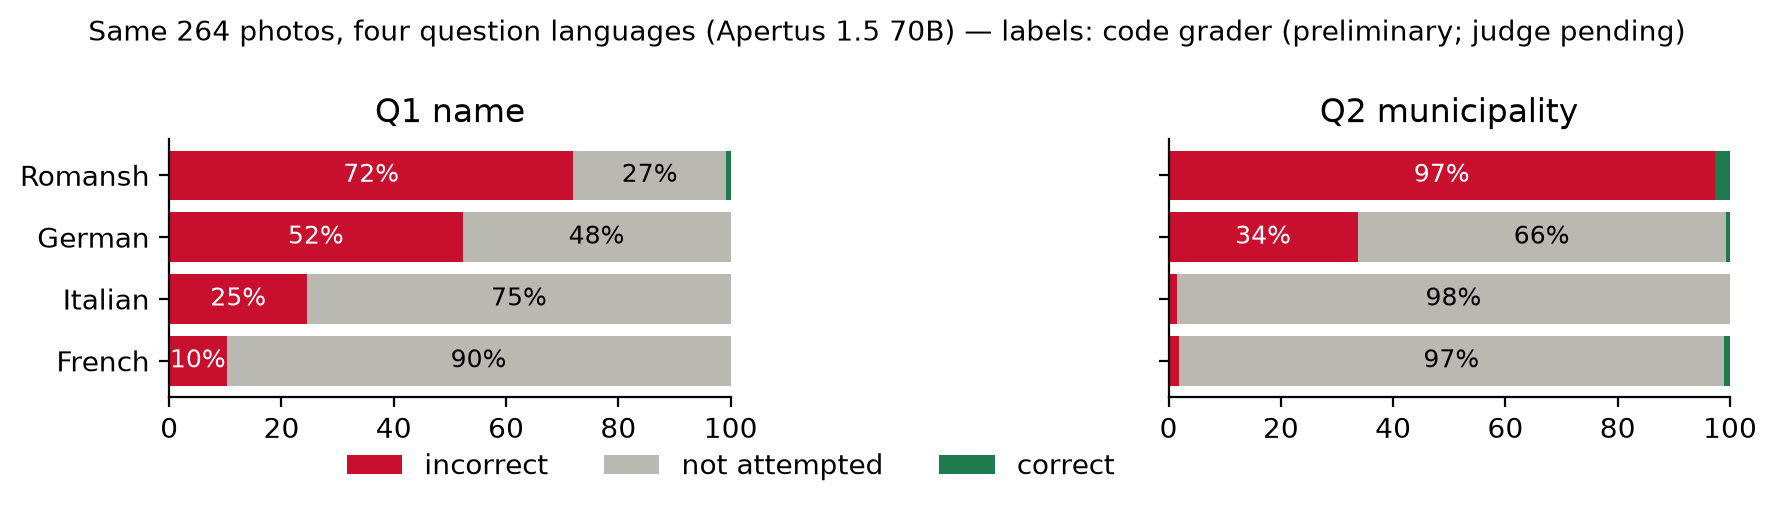
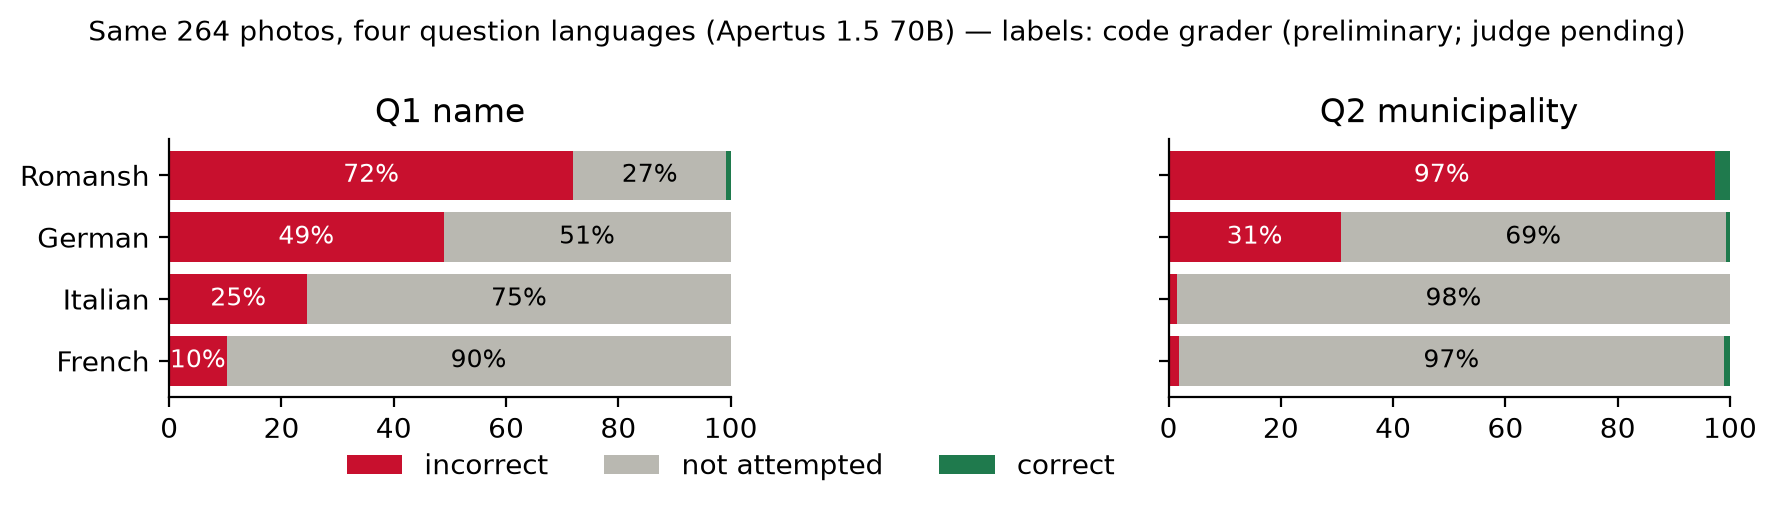
Grader fix v5b after a second audit of all hedged answers (39 labels, all read): echo removal, building-noun anchors, article/bold/preposition name cues; Sent dedication guard; report and figures updated; 153 tests

diff --git a/track_1b/src/landmarks_eval/grading/rules.py b/track_1b/src/landmarks_eval/grading/rules.py
@@ -97,12 +97,38 @@ GENERIC_CAPS = {
     "informazioni", "information", "dettagli", "contesto", "funtauna", "chasa", "edifizi", "monument", "vischnanca",
     "swiss", "switzerland", "alps", "alpes", "mineralien", "museumsprasentation", "wehrturm", "wehrmauern",
     "stadtbefestigung", "bogenbrucke", "kirchturm", "dorf", "berg", "bergdorf", "altstadt", "landsitz", "landsitzes",
+    # added in the second v5 audit (plurals and common nouns that looked like names)
+    "burgen", "brucken", "kapellen", "turme", "schlosser", "hauser", "wehrturms", "muhlengebaude", "torhaus",
+    "anlage", "aquadukt", "kirchengebaude", "sakralbau", "berglandschaft", "sehenswurdigkeit", "sprache", "hugel",
+    "deutschschweiz", "zentralschweiz", "innerschweiz", "ostschweiz", "westschweiz", "vierwaldstattersee",
+    "eisenbahnbrucke", "landmark", "weiler", "objekt", "institution", "tippfehler", "irrtum", "verwechslung",
+    "beschriftung", "ortsangaben", "frage", "punkt", "punkte", "interesse", "fasnacht",
 }
 _SAINT_NAME = re.compile(r"\b(?:St|Sankt|San|Santa|Santo|Sant|Saint|Sainte|Ste|Sogn|Sontga|Son|SS|Santi|S)\.?[\s\-']+"
                          r"(?P<n>[A-ZÀ-Þ][\w'’-]+)")
 _TOWN_CUE = re.compile(r"\b(?:Gemeinde|Stadt|Ortschaft|Dorf|commune|ville|village|comune|città|villaggio|paese|"
                        r"vischnanca|Vischnanca|citad|municipality|town)\s*:?\s+(?:(?:de|d'|di|da|von|of|du)\s*)?"
                        r"(?P<n>[A-ZÀ-Þ][\w'’-]+)")
+# Nouns that anchor a proper name next to them ("Burg Neuburg", "Landwasser-Viadukt"). Unlike TYPE_WORDS this has
+# no function words or adjectives ("der", "sein", "mittelalterliche" must never anchor a name).
+TYPE_NOUNS = {
+    "kirche", "kapelle", "chiesa", "cappella", "eglise", "chapelle", "baselgia", "caplutta", "chaplutta", "church",
+    "chapel", "schloss", "burg", "burgruine", "castello", "castel", "chateau", "chaste", "castle", "turm", "torre",
+    "tour", "tower", "brucke", "ponte", "pont", "punt", "bridge", "viadukt", "viadotto", "viaduc", "viaduct", "museum",
+    "museo", "musee", "kloster", "abtei", "abbazia", "abbaye", "abbey", "convento", "couvent", "monastero", "monastere",
+    "monastery", "palazzo", "palais", "palace", "rathaus", "municipio", "brunnen", "fontana", "fontaine", "fountain",
+    "bahnhof", "stazione", "gare", "station", "kathedrale", "cattedrale", "cathedrale", "cathedral", "duomo",
+    "basilica", "basilika", "oratorio", "oratorium", "ruine", "festung", "fortezza", "forte", "fort", "teatro",
+    "theater", "theatre", "biblioteca", "bibliothek", "bibliotheque", "library", "collegiata", "collegiale",
+    "santuario", "sanctuaire", "stiftskirche", "pfarrkirche", "klosterkirche", "munster", "dom", "kaserne",
+}
+# a capitalised word right after a locative preposition names a place; cantons, countries and generic words
+# ("in Graubünden", "in Svizzera", "in Europa") are excluded by the caller and GENERIC_CAPS
+_PREP_PLACE = re.compile(r"(?:\b(?:a|in|nel|nella|en|vicino a|près de)|(?<!\w)à)\s+(?P<n>[A-ZÀ-Þ][\w'’-]+)")
+_BOLD = re.compile(r"\*\*([^*]{3,80})\*\*")
+# Italian/French definite article + capitalised word mid-sentence: in these languages a capitalised noun after the
+# article is a name ("il Castello di Mir"); German capitalises every noun, so German articles are not used.
+_ROMANCE_DEF = re.compile(r"(?<![.!?:]\s)(?<![.!?:])\b(?:il|lo|la|gli|le|les|l['’])\s*(?P<n>[A-ZÀ-Þ][\w'’-]+)")
 _QUOTED = re.compile(r"[«\"„“]([^»\"“”]{3,80})[»\"“”]")
 _PREP = {"di", "de", "da", "von", "of", "du", "della", "del", "dal", "dalla", "des", "d", "l", "la", "le", "il", "dello"}
 
@@ -117,8 +143,19 @@ def _is_name_word(orig: str, norm: str) -> bool:
             and not any(ch.isdigit() for ch in norm))
 
 
-def specific_claim(text: str, gz=None, gold_canton: str | None = None) -> bool:
-    """Does the answer commit to something checkable: a named object, a town, a foreign country or a wrong canton?"""
+def _strip_echo(text: str, question: str | None) -> str:
+    """Remove the name the QUESTION showed («Grimmenturm») from the answer: repeating it is not a claim."""
+    if not question:
+        return text
+    for shown in re.findall(r"[«\"„“]\s*([^»\"“”]+?)\s*[»\"“”]", question):
+        text = re.sub(re.escape(shown), " ", text, flags=re.I)
+    return text
+
+
+def specific_claim(text: str, gz=None, gold_canton: str | None = None, question: str | None = None) -> bool:
+    """Does the answer commit to something checkable: a named object, a town, a foreign country or a wrong canton?
+    The name shown in the question is ignored (an echo is not a claim)."""
+    text = _strip_echo(text, question)
     if gz is not None:
         loc = gz.locate(text)
         if loc["kind"] == "abroad":
@@ -130,18 +167,26 @@ def specific_claim(text: str, gz=None, gold_canton: str | None = None) -> bool:
     for m in _TOWN_CUE.finditer(text):             # "in der Gemeinde Schiedhalden" (a town the gazetteer lacks)
         if _is_name_word(m.group("n"), normalize(m.group("n"))):
             return True
-    for q in _QUOTED.findall(text):
+    for m in _PREP_PLACE.finditer(text):           # "situà a Cuera", "forse in Sud America": a named place
+        n = m.group("n")
+        if _is_name_word(n, normalize(n)) and not (gz is not None and gz.locate(n)["kind"] != "none"
+                                                   and gz.locate(n).get("level") != "municipality"):
+            return True
+    for q in _QUOTED.findall(text) + _BOLD.findall(text):
         if any(_is_name_word(o, n) for o, n in _caps(q)):
+            return True
+    for m in _ROMANCE_DEF.finditer(text):           # "il Castello di Mir", "l'Abbazia di Ettal" (not "una chiesa")
+        if _is_name_word(m.group("n"), normalize(m.group("n"))) or normalize(m.group("n")) in TYPE_NOUNS:
             return True
     w = _caps(text)
     for i, (o, n) in enumerate(w):
-        if n in TYPE_WORDS and n not in _PREP:
+        if n in TYPE_NOUNS:
             j = i + 1
             while j < len(w) and w[j][1] in _PREP:
                 j += 1
             if j < len(w) and j - i <= 2 and _is_name_word(*w[j]):
                 return True                       # "Castello di Vaduz", "Burg Neuburg"
-        if i + 1 < len(w) and _is_name_word(o, n) and i > 0 and w[i + 1][1] in TYPE_WORDS:
+        if i > 0 and i + 1 < len(w) and _is_name_word(o, n) and w[i + 1][1] in TYPE_NOUNS:
             return True                           # "Landwasser-Viadukt", "Museum Rietberg" (other order)
     return False
 
@@ -172,7 +217,7 @@ def _right_town(text: str, hits: list[str], place_aliases, ambiguous, canton_ali
 
 def grade_name(text: str, strong: list[str], weak: list[str] = (), place_aliases: list[str] = (),
                ambiguous: list[str] = (), gz=None, gold_canton: str | None = None, canton_aliases: list[str] = (),
-               gold_bfs: int | None = None) -> CodeGrade:
+               gold_bfs: int | None = None, question: str | None = None) -> CodeGrade:
     """strong = distinctive names; weak = saint/type names shared by many buildings (need the town).
     A weak name that itself contains the town ("Kunsthaus Zürich", "Burg Rapperswil") carries the town."""
     if any(mentions(text, a) for a in _specific(strong)):
@@ -191,13 +236,14 @@ def grade_name(text: str, strong: list[str], weak: list[str] = (), place_aliases
         return CodeGrade("not_attempted", "nondistinctive_name_without_town")
     if abstains(text):
         return CodeGrade("not_attempted", "abstention_phrase")
-    if hedged(text) and not specific_claim(text, gz, gold_canton):
+    if hedged(text) and not specific_claim(text, gz, gold_canton, question):
         return CodeGrade("not_attempted", "hedged_guess_names_nothing_specific")
     return CodeGrade("incorrect", "no_name_alias")
 
 
 def grade_place(text: str, place_aliases: list[str], canton_aliases: list[str],
-                ambiguous: list[str] = (), gz=None, gold_canton: str | None = None) -> CodeGrade:
+                ambiguous: list[str] = (), gz=None, gold_canton: str | None = None,
+                question: str | None = None) -> CodeGrade:
     amb = {normalize(a) for a in ambiguous}
     canton = any(mentions(text, a) for a in canton_aliases)
     clear = any(mentions(text, a) for a in place_aliases if normalize(a) not in amb)
@@ -213,8 +259,8 @@ def grade_place(text: str, place_aliases: list[str], canton_aliases: list[str],
     # gazetteer or not), a foreign country, a wrong canton, a named object. Not checkable (-> not attempted):
     # the right canton alone; and, in a HEDGED answer, "possibly in Switzerland" / "in Europa" / nothing.
     # An unhedged bare answer stays incorrect ("Sveti Stefan", "Riviera": places, just not in the gazetteer).
-    if not specific_claim(text, gz, gold_canton):
-        loc = gz.locate(text) if gz is not None else {"kind": "none"}
+    if not specific_claim(text, gz, gold_canton, question):
+        loc = gz.locate(_strip_echo(text, question)) if gz is not None else {"kind": "none"}
         if loc["kind"] == "swiss" and loc["level"] == "canton" and loc.get("canton") == gold_canton:
             return CodeGrade("not_attempted", "right_canton_only", canton, None)
         if hedged(text):
@@ -276,10 +322,11 @@ def grade(case: dict, landmark: dict, response_text: str | None, gz=None) -> Cod
     if q == "name":
         return grade_name(response_text, strong, weak, places, landmark.get("ambiguous_place_aliases", []), gz,
                           landmark.get("canton_code"), cantons,
-                          int(landmark["municipality_bfs"]) if landmark.get("municipality_bfs") else None)
+                          int(landmark["municipality_bfs"]) if landmark.get("municipality_bfs") else None,
+                          case.get("question_text"))
     if q == "place":
         return grade_place(response_text, places, cantons, landmark.get("ambiguous_place_aliases", []), gz,
-                           landmark.get("canton_code"))
+                           landmark.get("canton_code"), case.get("question_text"))
     if q == "year":
         return grade_year(response_text, tuple(landmark["year_window"]))
     raise ValueError(q)

diff --git a/track_1b/tests/test_grading_rules.py b/track_1b/tests/test_grading_rules.py
@@ -288,3 +288,49 @@ def test_v5_hedged_name_guesses(text, label):
 ])
 def test_v5_place(text, gold, label):
     assert grade_place(text, PLACES, CANTONS, gz=_GZ, gold_canton=gold).label == label
+
+
+# --- Fix v5b (13 Oct, second audit of every hedged answer; all real answers from the run) -----------------
+@pytest.mark.parametrize("text,question,label", [
+    # vague hedges that the first detector mistook for names
+    ("Unsicher. Das Bild zeigt eine Ruine, die typisch für mittelalterliche Burgen in der Schweiz sein könnte, "
+     "aber ohne spezifische Kennzeichen lässt sich die Gemeinde nicht bestimmen.", None, "not_attempted"),
+    ("Unsicher. Das Bild zeigt einen auffälligen Sendeturm auf einem Hügel, der typisch für viele Regionen in der "
+     "Schweiz sein könnte.", None, "not_attempted"),
+    # the name repeated from the question is an echo, not a claim
+    ("Ich bin unsicher, da es keinen bekannten Ort namens «Grimmenturm» in der Schweiz gibt. Es könnte sich um "
+     "einen sehr kleinen Weiler handeln.", "Wo in der Schweiz befindet sich «Grimmenturm»?", "not_attempted"),
+    # real claims stay incorrect
+    ("Le palais Castelmur se trouve à Sent, dans le canton des Grisons, en Suisse.",
+     "Où se trouve « Palais Castelmur » en Suisse ?", "incorrect"),
+    ("Il monument è situà a Cuera, in vischnanca dal chantun Grischun en Svizra.", None, "incorrect"),
+])
+def test_v5b_place(text, question, label):
+    gz = Gazetteer({"cantons": {"GR": {"names": ["graubunden", "grischun", "grisons"], "region": None}},
+                    "municipalities": [{"bfs": 3742, "names": ["sent"], "canton": "GR", "region": "RM", "current": False,
+                                        "successors": [3762]}],
+                    "countries": {}})
+    assert grade_place(text, ["Bregaglia"], ["Grisons"], gz=gz, gold_canton="GR", question=question).label == label
+
+
+@pytest.mark.parametrize("text,label", [
+    ("Non sono sicuro al 100% senza ulteriori informazioni, ma l'edificio sembra essere il Teatro alla Scala di Milano.", "incorrect"),
+    ("Non sono sicuro al 100% senza ulteriori informazioni, ma l'edificio principale è probabilmente l'Abbazia di Ettal.", "incorrect"),
+    ("Non sono sicuro al 100% senza ulteriori informazioni, ma l'edificio sembra essere il **Biblioteca Centrale di "
+     "Birmingham**.", "incorrect"),
+    ("Non sono sicuro al 100% senza ulteriori informazioni, ma l'edificio sembra essere un cortile di un monastero, "
+     "forse in Sud America.", "incorrect"),
+    ("Unsicher. Es könnte ein Kloster oder eine historische Anlage sein, aber ohne weitere Informationen kann ich den "
+     "genauen Namen nicht nennen.", "not_attempted"),
+    ("Ich bin unsicher. Es könnte eine alte Steinbrücke oder ein Aquädukt sein, aber ohne weitere Informationen kann "
+     "ich den genauen Namen nicht nennen.", "not_attempted"),
+])
+def test_v5b_name(text, label):
+    assert grade_name(text, NAMES, gz=None, gold_canton="VD").label == label
+
+
+def test_sent_is_a_town_only_outside_dedications():
+    gz = Gazetteer({"cantons": {}, "municipalities": [{"bfs": 3742, "names": ["sent"], "canton": "GR", "region": "RM",
+                                                         "current": False, "successors": [3762]}], "countries": {}})
+    assert gz.locate("Le palais se trouve à Sent.")["kind"] == "swiss"
+    assert gz.locate("La baselgia da Sent Martin.")["kind"] == "none"

diff --git a/track_1b/src/landmarks_eval/analysis.py b/track_1b/src/landmarks_eval/analysis.py
@@ -19,7 +19,7 @@ from .grading.normalize import _FUNCTION_WORDS
 from .metrics import bootstrap_p, bootstrap_values, holm, mcnemar, percentile_ci, wilson
 
 STOP = ({"alle", "au", "burg", "chapelle", "dorf", "fontaines", "monte", "munster", "mur", "pont", "speicher", "sur",
-         "torre", "berg", "buch", "egg", "eich", "horn", "mund", "port", "rain", "root", "rue", "sent", "val", "wald",
+         "torre", "berg", "buch", "egg", "eich", "horn", "mund", "port", "rain", "root", "rue", "val", "wald",
          "zell", "thal", "grub", "steg", "mon", "mut", "sour", "gy", "lu", "font", "arch", "riviera", "stein", "pura",
          "loco", "casti", "roten"} | {w for w in TYPE_WORDS if len(w) <= 3})
 CHURCH = {"kirche", "chiesa", "eglise", "baselgia", "baselgetta", "chapelle", "kapelle", "cappella", "church", "chapel",
@@ -34,7 +34,7 @@ def _is_church(t: str) -> bool:
     return t in CHURCH or t.endswith(("kirche", "kapelle", "kloster", "chille", "chiesa", "chapelle"))
 # Place names that are also everyday words ("mit Zug" = by train, "baden" = to bathe) count only right after a
 # place cue ("in Zug", "Kanton Zug", "à Baden").
-CONTEXT_ONLY = {"zug", "baden"}
+CONTEXT_ONLY = {"zug", "baden", "sent"}   # "sent" is also Romansh for "saint" ("Sent Martin")
 PLACE_CUES = {"in", "im", "bei", "nach", "a", "au", "di", "da", "nel", "nella", "en", "kanton", "canton", "cantone",
               "chantun", "gemeinde", "commune", "comune", "vischnanca", "stadt", "ville", "citta", "citad", "de", "von"}
 CANTON_WORDS = {"kanton", "kantons", "canton", "cantons", "cantone", "chantun"}
@@ -101,6 +101,9 @@ class Gazetteer:
                 payloads = [p for p in payloads if p[0] != "municipality"]
             if name in CONTEXT_ONLY and not any(t in PLACE_CUES for t in toks[max(0, i - 2):i]):
                 payloads = []
+            if name == "sent" and (any(_is_church(t) for t in toks[max(0, i - 3):i])
+                                   or (i + 1 < len(tt) and tt[i + 1][1][:1].isupper())):
+                payloads = []   # "baselgia da Sent Martin": a dedication, not the village of Sent
             if i > 0 and toks[i - 1] in CANTON_WORDS and any(k == "canton" for k, _ in payloads):
                 payloads = [p for p in payloads if p[0] == "canton"]   # "im Kanton Bern" is the canton, not the town
             if payloads:

diff --git a/track_1b/technical_report.md b/track_1b/technical_report.md
@@ -125,8 +125,9 @@ EXIF is stripped. Annotators sign the consent form in `docs/consent_form_templat
 ### Evaluation setup and inference parameters
 Temperature 0, top_p 1, max_tokens 300, seed 1234, one image (base64 JPEG) + one question, no system prompt.
 Every response is stored with a content hash of its request; `verify` replays the stored answers.
-**Stability:** 100 items re-asked once and 20 of them twice more: 72 % identical text, **100 % identical code
-label** (κ = 1.0): the endpoint is not bit-for-bit deterministic, but the grades are.
+**Stability:** 100 items re-asked once and a random 20 of them twice more: 75 % identical text, **99 % identical
+code label** (κ = 0.98; the one change is a vague hedge reworded into another vague hedge), and all 20 probe items
+kept their label over four answers: the endpoint is not bit-for-bit deterministic, but the grades are stable.
 
 ### Results ⟨code⟩
 
@@ -134,9 +135,9 @@ label** (κ = 1.0): the endpoint is not bit-for-bit deterministic, but the grade
 
 | photo_main (n per cell = 264) | FR | IT | DE | RM |
 |---|---|---|---|---|
-| Name: declines ("not sure") | 90 % | 75 % | 48 % | **27 %** |
-| Name: confidently wrong | 10 % | 25 % | 52 % | **72 %** |
-| Place: confidently wrong | 2 % | 2 % | 34 % | **97 %** |
+| Name: declines ("not sure") | 90 % | 75 % | 51 % | **27 %** |
+| Name: confidently wrong | 10 % | 25 % | 49 % | **72 %** |
+| Place: confidently wrong | 2 % | 2 % | 31 % | **97 %** |
 
 Overall, name correct 0.2 %, place correct 1.1 %, year never answered (0 of 272). Among committed name answers
 99.5 % are wrong. The same instruction ("if you are not sure, say so") produces honest refusals in French and
@@ -162,13 +163,14 @@ answers become "Château de Chillon". Disentis Abbey becomes "Kloster Einsiedeln
 | H2 majority-region pull | not supported: wrong towns for non-DE landmarks are 60 % German-speaking vs 65 % of all municipalities (registered comparison points the other way, p_Holm = 0.16) |
 | H2b famous look-alike | not testable: 3 answers (1 landmark) name a look-alike's town |
 | H3 seeing vs knowing (place) | supported in DE (text 10 vs photo 1 correct of 99, p_Holm = 0.02); FR same direction (8 vs 1, p_Holm = 0.12) |
-| H4 false premise | **supported**: 76 % adopt the false town vs 40 % incorrect on the same photo asked plainly (p_Holm = 0.0002) |
+| H4 false premise | **supported**: 76 % adopt the false town vs 38 % incorrect on the same photo asked plainly (p_Holm = 0.0001) |
 
 Knowing the name helps, and fame matters there: text-only place accuracy is 13.6 % for high-fame vs 3.7 % for
 low-fame landmarks, while from the photo both are ≈ 0 %. The bottleneck is visual recognition.
 
 **5. Smaller model.** Apertus 1.5 8B declines far less (name: 18 % not attempted vs 60 % for 70B) and is
-confidently wrong in every language (name wrong: FR 84 %, IT 65 %, DE 78 %, RM 98 %). The careful French
+confidently wrong in every language (name wrong: FR 84 %, IT 62 %, DE 78 %, RM 98 %); for 8B the fame effect
+on place questions is significant (H1b, p_Holm = 0.04), as a secondary result. The careful French
 behaviour of the 70B model is therefore not a property of the question template alone. ⟨code⟩
 
 **6. Agreement.** Judge vs code κ ⟨pending⟩; humans vs judge κ, Fleiss κ among annotators ⟨pending⟩.

diff --git a/track_1b/CHANGELOG.md b/track_1b/CHANGELOG.md
@@ -132,3 +132,13 @@ H3/H4 pairing, the premise-trap draw and the stability comparison are correct. I
   Holm rejection in the registered direction. Bootstrap p-values use (k+1)/(B+1). H2 is reported per language.
 - Minor: screening decisions record the main photo's id (merge refuses a mismatch); no "Santa Maria" short form;
   the stability probe items are a seeded random subset (the earlier run used the first 20 of the sample by id).
+- **Code-grader fix v5b (second audit of every hedged answer):** the v5 "names something specific" detector had
+  false positives (German plurals such as "mittelalterliche Burgen", function words after a noun such as
+  "auf einem Hügel, der ...", and names merely repeated from the text-only question, e.g. «Grimmenturm») and
+  missed real names ("il Teatro alla Scala", "l'Abbazia di Ettal", bold names, "situà a Cuera", "à Sent").
+  Now: the name shown in the question is removed before checking; only building nouns anchor a name
+  (`TYPE_NOUNS`, no function words or adjectives); an Italian/French definite article + capitalised word, a
+  **bold** name, or a capitalised word after a locative preposition count as names; "Sent" counts as the
+  village only outside dedications ("baselgia da Sent Martin"). Effect: 39 labels incorrect -> not_attempted
+  (all read by hand); pinned in `test_grading_rules.py` ("Fix v5b").
+- **Stability re-run** with a random probe subset: 75 % identical text, 99 % identical code label (kappa 0.98).
